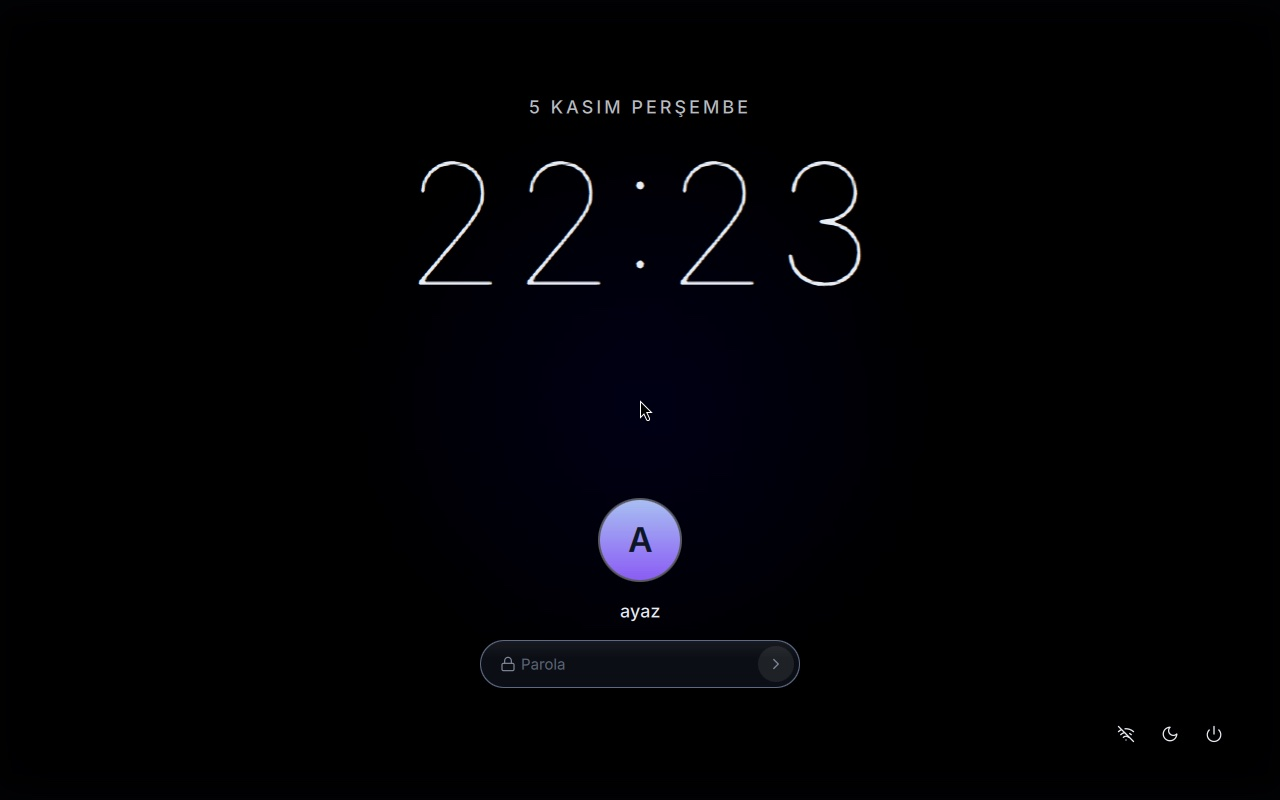
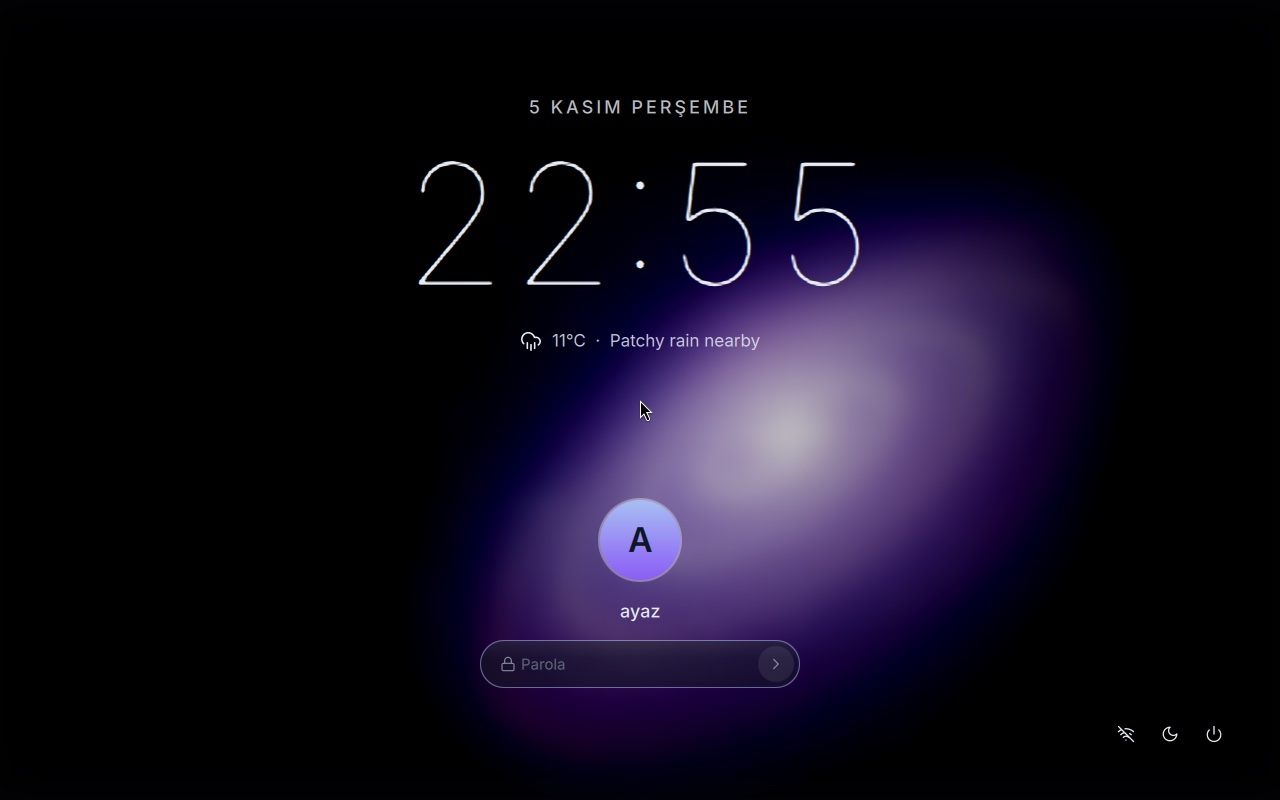
Add Music and Gallery apps, weather on desktop and lock screen

Changed region(s): [[0.3438, 0.1875, 0.875, 0.9688]]

diff --git a/shell/services/Sys.qml b/shell/services/Sys.qml
@@ -72,6 +72,32 @@ Singleton {
     readonly property string dateShort: Qt.locale("tr_TR").toString(now, "d MMM ddd")
     readonly property string dateLong: Qt.locale("tr_TR").toString(now, "d MMMM dddd").toLocaleUpperCase(Qt.locale("tr_TR"))
 
+    // --- Hava durumu (wttr.in, konum IP'den; 30 dakikada bir) ---
+    property string weatherTemp: ""
+    property string weatherDesc: ""
+    property string weatherPlace: ""
+    property string weatherIcon: "cloud"
+    Process {
+        id: weatherQuery
+        command: ["curl", "-s", "--max-time", "8", "https://tr.wttr.in/?format=%t|%C|%l|%x"]
+        stdout: StdioCollector {
+            onStreamFinished: {
+                const p = text.trim().split("|");
+                if (p.length < 4 || text.indexOf("<") >= 0) return;
+                root.weatherTemp = p[0].replace("+", "");
+                root.weatherDesc = p[1];
+                root.weatherPlace = p[2].split(",")[0];
+                const sym = p[3];
+                root.weatherIcon = sym.indexOf("!") >= 0 ? "cloud-lightning"
+                    : sym.indexOf("*") >= 0 ? "cloud-snow"
+                    : (sym.indexOf("/") >= 0 || sym.indexOf(".") >= 0) ? "cloud-rain"
+                    : sym.indexOf("=") >= 0 ? "cloud-fog"
+                    : sym === "o" ? "sun" : sym === "m" ? "cloud-sun" : "cloud";
+            }
+        }
+    }
+    Timer { interval: 30 * 60 * 1000; running: true; repeat: true; triggeredOnStart: true; onTriggered: weatherQuery.running = true }
+
     // --- Güncellemeler (6 saatte bir kontrol) ---
     property int updates: 0
     Process {

diff --git a/apps/welcome/Main.qml b/apps/welcome/Main.qml
@@ -197,6 +197,13 @@ Window {
             if (m) step = parseInt(m[1]);
             const pk = /^--pick=(.*)$/.exec(appArgs[i]);
             if (pk) { const p = {}; pk[1].split(",").forEach(x => p[x] = true); picked = p; }
+            if (appArgs[i] === "--demo-progress") {
+                installStarted = true;
+                const ids = Object.keys(picked);
+                const s = {};
+                ids.forEach((id, n) => s[id] = n === 0 ? { st: "ok", pct: 100, msg: "Yüklendi" } : n === 1 ? { st: "run", pct: 45, msg: "İndiriliyor" } : n === 2 ? { st: "fail", pct: 0, msg: "Yüklenemedi" } : { st: "wait", pct: 0, msg: "Sırada" });
+                istate = s;
+            }
         }
         visible = true;
     }
@@ -347,7 +354,7 @@ Window {
                             Rectangle {
                                 required property var modelData
                                 readonly property bool sel: win.wp === modelData.path || (win.wp.split("/").pop() === modelData.name)
-                                width: wpGrid.cw; height: Math.round(wpGrid.cw * 0.58); radius: 14
+                                width: wpGrid.cw; height: Math.round(wpGrid.cw * 0.68); radius: 14
                                 color: Qt.rgba(1, 1, 1, 0.05)
                                 border.width: sel ? 2 : 1
                                 border.color: sel ? win.accent : Theme.stroke

diff --git a/shell/modules/LockScreen.qml b/shell/modules/LockScreen.qml
@@ -103,6 +103,18 @@ Scope {
                         layer.enabled: true
                         layer.effect: MultiEffect { shadowEnabled: true; shadowBlur: 1; shadowOpacity: 0.35; shadowColor: "#000" }
                     }
+                    Row {
+                        anchors.horizontalCenter: parent.horizontalCenter
+                        visible: Sys.weatherTemp !== ""
+                        spacing: 10
+                        Icon { name: Sys.weatherIcon; size: 22; anchors.verticalCenter: parent.verticalCenter }
+                        Text {
+                            text: Sys.weatherTemp + "  ·  " + Sys.weatherDesc
+                            color: Theme.text; opacity: 0.85
+                            font { family: Theme.font; pixelSize: 17 }
+                            anchors.verticalCenter: parent.verticalCenter
+                        }
+                    }
                 }
 
                 // Alt orta: kullanıcı ve parola

diff --git a/shell/modules/Desktop.qml b/shell/modules/Desktop.qml
@@ -51,6 +51,19 @@ PanelWindow {
             color: Theme.text
             font { family: Theme.font; pixelSize: 40; weight: Font.Normal }
         }
+        Row {
+            visible: Sys.weatherTemp !== ""
+            spacing: 10
+            topPadding: 6
+            Icon { name: Sys.weatherIcon; size: 20; anchors.verticalCenter: parent.verticalCenter }
+            Text {
+                text: Sys.weatherTemp + "  ·  " + Sys.weatherDesc + (Sys.weatherPlace ? "  ·  " + Sys.weatherPlace : "")
+                color: Theme.text
+                opacity: 0.8
+                font { family: Theme.font; pixelSize: 15 }
+                anchors.verticalCenter: parent.verticalCenter
+            }
+        }
     }
 
     // Canlı oturumda (kurulum ortamı) "AyazOS'u Kur" kartı

diff --git a/apps/gallery/Main.qml b/apps/gallery/Main.qml
@@ -210,7 +210,7 @@ Window {
         const it = curItem;
         if (!it) return;
         const path = it.path;
-        run(["sh", "-c", "t=\20 20 12 61 79 80 81 701 33 98 100 204 250 395 398 399 400stat -c %Y \"\\"); mogrify -auto-orient -rotate \"\\" \"\\" && touch -d \"@\\" \"\\"", "sh", path, String(deg)], (code) => {
+        run(["sh", "-c", "t=$(stat -c %Y \"$1\"); mogrify -auto-orient -rotate \"$2\" \"$1\" && touch -d \"@$t\" \"$1\"", "sh", path, String(deg)], (code) => {
             if (code !== 0) { win.say("Döndürülemedi"); return; }
             const r = Object.assign({}, win.thumbReady); delete r[path]; win.thumbReady = r;
             win.makeThumbs([path], true);
